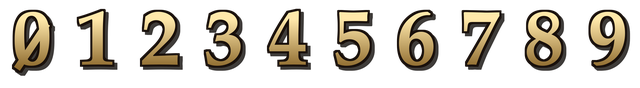
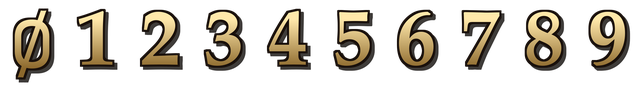
Slashed-zero numeral, full-size waiting placards, cards tossed off the table at game end
- The bid 0 is now Pagella's own slashed zero (the empty-set sign), not a drawn-on stroke.
- Placards waiting to bid keep their full size.
- When the game ends, the trump and every card of the final hand pop up from where
  they lay and tumble off the screen in 3D, like the title screen's cards.

Claude-Session: https://claude.ai/code/session_01WrGcoQcxycBfkWXV8vLDdm

Changed region(s): [[0.0, 0.0909, 0.0938, 0.9545]]

diff --git a/core/src/main/java/ohheck/FallingCards.java b/core/src/main/java/ohheck/FallingCards.java
@@ -49,6 +49,10 @@ public final class FallingCards {
 		final Vector3 axis = new Vector3();
 		float fall, spin, swayAmp, swayFreq, swayPhase, age;
 		Card card;
+		/** A card tossed off the table: thrown with this velocity, falling under gravity after its delay. */
+		boolean tossed;
+		final Vector3 vel = new Vector3();
+		float delay;
 	}
 
 	private final Assets assets;
@@ -56,6 +60,8 @@ public final class FallingCards {
 	private final List<Flake> flakes = new ArrayList<Flake>();
 	private float time, spawnDebt;
 	private final boolean fromEmpty;
+	/** Only tossed cards, all in focus and evenly lit, with no sparkles: the table at the game's end. */
+	private boolean tableMode;
 	private final float period, phase;
 
 	// scratch space, reused every frame
@@ -81,6 +87,53 @@ public final class FallingCards {
 		this.phase = rng.nextFloat() * MathUtils.PI2;
 	}
 
+	/** For the table at the game's end: nothing falls until cards are {@link #toss tossed}. */
+	public static FallingCards forTable(Assets assets, Random rng) {
+		FallingCards f = new FallingCards(assets, rng, true);
+		f.tableMode = true;
+		f.falling = false;
+		return f;
+	}
+
+	/** Upward pop, sideways scatter, depth drift and gravity for tossed cards, in screen units. */
+	private static final float TOSS_UP_MIN = 260f, TOSS_UP_MAX = 460f, TOSS_SIDE = 160f, GRAVITY = 1500f,
+			TOSS_SPIN_MIN = 160f, TOSS_SPIN_MAX = 480f, SPIN_UP_TIME = 0.35f;
+
+	/**
+	 * Throws a card off the table: it starts exactly where it lies (centre (x, y) relative to
+	 * the screen centre, w wide, turned rot degrees), and after delay seconds pops up, starts
+	 * tumbling and falls off the bottom of the screen.
+	 */
+	public void toss(Card c, float x, float y, float w, float rot, float delay) {
+		Flake f = new Flake();
+		float z = CARD_W * FOCAL / w, k = z / FOCAL;
+		f.pos.set(x * k, y * k, z);
+		f.rot.set(Vector3.Z, rot);
+		f.vel.set((x / 400f * TOSS_SIDE + (rng.nextFloat() * 2 - 1) * TOSS_SIDE) * k,
+				MathUtils.lerp(TOSS_UP_MIN, TOSS_UP_MAX, rng.nextFloat()) * k, (rng.nextFloat() * 2 - 0.6f) * 260f);
+		f.axis.set(rng.nextFloat() * 2 - 1, rng.nextFloat() * 2 - 1, (rng.nextFloat() * 2 - 1) * 0.4f).nor();
+		f.spin = MathUtils.lerp(TOSS_SPIN_MIN, TOSS_SPIN_MAX, rng.nextFloat()) * (rng.nextBoolean() ? 1 : -1);
+		f.card = c;
+		f.tossed = true;
+		f.delay = delay;
+		flakes.add(f);
+	}
+
+	/** Whether any card is still on its way off the screen (or waiting to be thrown). */
+	public boolean active() {
+		return !flakes.isEmpty();
+	}
+
+	/** Whether a card has been thrown yet (false while every tossed card is still waiting). */
+	public boolean anyThrown() {
+		for (Flake f : flakes) {
+			if (f.tossed && f.age >= f.delay) {
+				return true;
+			}
+		}
+		return false;
+	}
+
 	/** Cards falling right now; showers ebb and swell over time. */
 	private float spawnRate() {
 		float e = 0.5f + 0.5f * MathUtils.sin(MathUtils.PI2 * time / period + phase);
@@ -104,24 +157,36 @@ public final class FallingCards {
 			}
 		}
 		time += dt;
-		updateSparkles(dt, viewW, viewH);
-		if (!falling) {
-			return;
+		if (!tableMode) {
+			updateSparkles(dt, viewW, viewH);
 		}
-		fallingFor += dt;
-		spawnDebt += spawnRate() * dt;
-		while (spawnDebt >= 1f) {
-			spawnDebt -= 1f;
-			if (flakes.size() < MAX_CARDS) {
-				spawn(viewW, viewH, true);
+		if (falling) {
+			fallingFor += dt;
+			spawnDebt += spawnRate() * dt;
+			while (spawnDebt >= 1f) {
+				spawnDebt -= 1f;
+				if (flakes.size() < MAX_CARDS) {
+					spawn(viewW, viewH, true);
+				}
 			}
 		}
 		for (Iterator<Flake> it = flakes.iterator(); it.hasNext();) {
 			Flake f = it.next();
 			f.age += dt;
-			f.pos.y -= f.fall * dt;
-			f.pos.x += f.swayAmp * MathUtils.cos(f.swayFreq * f.age + f.swayPhase) * dt;
-			dq.set(f.axis, f.spin * dt);
+			if (f.tossed) {
+				float t = f.age - f.delay;
+				if (t <= 0) {
+					continue; // still lying on the table
+				}
+				float k = f.pos.z / FOCAL;
+				f.vel.y -= GRAVITY * k * dt;
+				f.pos.mulAdd(f.vel, dt);
+				dq.set(f.axis, f.spin * Math.min(1f, t / SPIN_UP_TIME) * dt);
+			} else {
+				f.pos.y -= f.fall * dt;
+				f.pos.x += f.swayAmp * MathUtils.cos(f.swayFreq * f.age + f.swayPhase) * dt;
+				dq.set(f.axis, f.spin * dt);
+			}
 			f.rot.set(dq.mul(f.rot)).nor();
 			if (f.pos.y < -(halfH(f.pos.z, viewH) + CARD_H * 1.5f)) {
 				it.remove();
@@ -167,12 +232,18 @@ public final class FallingCards {
 	/** Draws sparkles and cards with the screen centre at (cx, cy). */
 	public void draw(SpriteBatch batch, float cx, float cy) {
 		Collections.sort(flakes, FAR_FIRST);
-		drawSparkles(batch, cx, cy, true);
+		if (!tableMode) {
+			drawSparkles(batch, cx, cy, true);
+		}
 		glinting.clear();
 		for (Flake f : flakes) {
-			drawFlake(batch, f, cx, cy);
+			if (!f.tossed || f.age >= f.delay) {
+				drawFlake(batch, f, cx, cy);
+			}
 		}
-		drawSparkles(batch, cx, cy, false);
+		if (!tableMode) {
+			drawSparkles(batch, cx, cy, false);
+		}
 		drawGlints(batch, cx, cy);
 	}
 
@@ -191,8 +262,11 @@ public final class FallingCards {
 		// further away is darker, so the shower has depth
 		float depth = (f.pos.z - NEAR) / (FAR - NEAR);
 		// (capped at 1: packed vertex colours overflow into the next channel above that)
-		float b = Math.min(0.94f, lit * MathUtils.lerp(1.05f, 0.42f, depth));
-		float d = defocus(f.pos.z);
+		// (on the table: no depth falloff, and flat cards keep their full brightness)
+		float b = Math.min(0.94f, tableMode ? 0.5f + 0.6f * lit : lit * MathUtils.lerp(1.05f, 0.42f, depth));
+		float d = tableMode ? 0f : defocus(f.pos.z);
+		// the title's warm light; on the table, the cards' own colours (so they don't change as they leave)
+		float warmR = tableMode ? 1f : WARM_R, warmG = tableMode ? 1f : WARM_G, warmB = tableMode ? 1f : WARM_B;
 
 		// a glint when the card turns its face towards the light
 		VIEW_LIGHT.set(LIGHT).add(toCam).nor();
@@ -206,11 +280,11 @@ public final class FallingCards {
 			TextureRegion blur = front ? assets.blurredFace(f.card) : assets.blurredBack();
 			float grow = 1f / (1f - 2f * Assets.blurMarginX()), growY = 1f / (1f - 2f * Assets.blurMarginY());
 			float a = Math.min(1f, d * 3f);
-			drawQuad(batch, f, cx, cy, blur, CARD_W * grow, CARD_H * growY, Color.toFloatBits(b * WARM_R, b * WARM_G, b * WARM_B, a));
+			drawQuad(batch, f, cx, cy, blur, CARD_W * grow, CARD_H * growY, Color.toFloatBits(b * warmR, b * warmG, b * warmB, a));
 		}
 		if (d < 0.98f) {
 			TextureRegion r = front ? assets.face(f.card) : assets.back();
-			drawQuad(batch, f, cx, cy, r, CARD_W, CARD_H, Color.toFloatBits(b * WARM_R, b * WARM_G, b * WARM_B, 1f - d));
+			drawQuad(batch, f, cx, cy, r, CARD_W, CARD_H, Color.toFloatBits(b * warmR, b * warmG, b * warmB, 1f - d));
 		}
 	}
 

diff --git a/core/src/main/java/ohheck/PlayScreen.java b/core/src/main/java/ohheck/PlayScreen.java
@@ -54,6 +54,10 @@ public class PlayScreen extends BaseScreen {
 	private final TrickView trick = new TrickView();
 	private final Sparks sparks = new Sparks();
 	private final Fireworks fireworks = new Fireworks();
+	/** At the game's end, the final hand's cards and the trump thrown off the table; null until then. */
+	private FallingCards tumble;
+	/** When the trump goes, then each card of the final hand in the order played. */
+	private static final float TOSS_TRUMP = 0.15f, TOSS_FIRST = 0.35f, TOSS_STEP = 0.04f;
 	private final Motes motes = new Motes();
 	/** Drives your seat in scripted screenshot runs; null in normal play. */
 	private final Autoplay autoplay;
@@ -132,6 +136,7 @@ public class PlayScreen extends BaseScreen {
 				newHighScore = PlayScreen.this.game.recordHighScore(m.score(HUMAN), overlays.place(HUMAN), lowest);
 				overlays.playAgainButton.set(0, 0, 0, 0); // not tappable until drawn
 				overlays.highScoresButton.set(0, 0, 0, 0);
+				tossTheTable(m);
 				if (m.leaders().contains(HUMAN)) { // you won (or tied for the win)
 					sparks.burst(table.w / 2, table.h / 2 + 100, 160);
 					fireworks.show(table.w, table.h);
@@ -173,7 +178,30 @@ public class PlayScreen extends BaseScreen {
 		return flow.match().phase() == Match.Phase.GAME_OVER;
 	}
 
+	/** Throws the trump and every card of the final hand (from where each was played) off the table. */
+	private void tossTheTable(Match m) {
+		// (its own seed, so the throw never changes the game's random numbers)
+		tumble = FallingCards.forTable(assets, new Random(m.score(HUMAN) * 31L + m.score(0)));
+		float cx = table.w / 2, cy = table.h / 2;
+		tumble.toss(m.trumpCard(), table.trumpX() + table.trumpW() / 2 - cx, table.trumpY() + table.trumpH() / 2 - cy,
+				table.trumpW(), 0, TOSS_TRUMP);
+		List<Card> played = m.playedThisHand();
+		List<Integer> seats = m.playedThisHandSeats();
+		for (int i = 0; i < played.size(); i++) {
+			int seat = seats.get(i);
+			Vector2 slot = table.trickSlot(seat);
+			tumble.toss(played.get(i), slot.x + Assets.CARD_W / 2f - cx, slot.y + Assets.CARD_H / 2f - cy, Assets.CARD_W,
+					TrickView.tilt(played.get(i), seat, m.handIndex()), TOSS_FIRST + i * TOSS_STEP);
+		}
+	}
+
+	/** Whether the trump card has been thrown off the table (so it's no longer drawn in its place). */
+	private boolean trumpGone() {
+		return tumble != null && tumble.anyThrown();
+	}
+
 	private void newGame() {
+		tumble = null;
 		Match m = Match.random(4, rng);
 		overlays.setMatch(m);
 		newHighScore = -1;
@@ -208,7 +236,10 @@ public class PlayScreen extends BaseScreen {
 		overlays.update(dt);
 		sparks.step(dt);
 		fireworks.update(dt);
-		motes.update(dt, flow.trumpFaceUp(), table.trumpX(), table.trumpY(), table.trumpW(), table.trumpH());
+		if (tumble != null) {
+			tumble.update(dt, table.w, table.h);
+		}
+		motes.update(dt, flow.trumpFaceUp() && !trumpGone(), table.trumpX(), table.trumpY(), table.trumpW(), table.trumpH());
 		if (autoplay != null) {
 			if (flow.yourTurnToBid() || flow.yourTurnToPlay()) {
 				autoplay.yourTurn(dt);
@@ -242,7 +273,8 @@ public class PlayScreen extends BaseScreen {
 		default:
 			break;
 		}
-		return dragging || sparks.active() || fireworks.active() || trick.anyInFlight(time);
+		return dragging || sparks.active() || fireworks.active() || trick.anyInFlight(time)
+				|| (tumble != null && tumble.active());
 	}
 
 	// ------------------------------------------------------------ input
@@ -499,6 +531,9 @@ public class PlayScreen extends BaseScreen {
 				Glints.draw(batch, assets.glow, pressed, dragX - cw / 2, dragY - ch / 2, cw, ch, cw, 0, time, 1f);
 			}
 		}
+		if (tumble != null) {
+			tumble.draw(batch, table.w / 2, table.h / 2); // over the scores, briefly, as they fall away
+		}
 		sparks.draw(batch, assets.glow);
 		if (menuOpen) {
 			overlays.drawMenu();
@@ -569,8 +604,11 @@ public class PlayScreen extends BaseScreen {
 	}
 
 	private void drawTrump() {
-		if (flow.state() == TableState.SHUFFLE) {
-			return; // the trump card is still in the deck
+		if (flow.state() == TableState.SHUFFLE || trumpGone()) {
+			if (trumpGone()) {
+				motes.draw(batch, assets.glow); // the last few still rising
+			}
+			return; // the trump card is still in the deck, or thrown off the table
 		}
 		float x = table.trumpX(), y = table.trumpY(), cw = table.trumpW(), ch = table.trumpH();
 		art.shadow(x, y, cw, ch, 4);

diff --git a/tools/make_art.py b/tools/make_art.py
@@ -407,19 +407,24 @@ NUMERAL_FONT = "/usr/share/texmf/fonts/opentype/public/tex-gyre/texgyrepagella-b
 
 def bid_digits(out):
     """Bid numerals 0-9 in one strip: gold, shaded darker toward the foot, with a dark
-    edge and an engraved shadow; the 0 is struck through like the zero-bid icon."""
+    edge and an engraved shadow; the 0 is struck through like the zero-bid icon.
+    The numeral font must be TeX Gyre Pagella: its empty-set sign is the slashed zero."""
     CW, CH = 64, 88
     W, H = CW * SS, CH * SS
-    font = ImageFont.truetype(NUMERAL_FONT if os.path.exists(NUMERAL_FONT) else SERIF_BOLD, 80 * SS)
+    font = ImageFont.truetype(NUMERAL_FONT, 80 * SS)
     strip = Image.new("RGBA", (CW * 10, CH), (0, 0, 0, 0))
     for n in range(10):
         mask = Image.new("L", (W, H), 0)
         md = ImageDraw.Draw(mask)
         cx, cy = W / 2, H / 2 + 2 * SS
-        md.text((cx, cy), str(n), font=font, fill=255, anchor="mm")
+        # the 0 is the font's own slashed zero (the empty-set sign, drawn as its 0 struck through)
         if n == 0:
-            k = 15 * SS
-            md.line([(cx - k, cy + k * 1.5), (cx + k, cy - k * 1.5)], fill=255, width=7 * SS)
+            # its slash reaches past the other digits, so a little smaller, centred on its own outline
+            zero = ImageFont.truetype(NUMERAL_FONT, 72 * SS)
+            l, t, r, b = md.textbbox((0, 0), "\u2205", font=zero)
+            md.text((cx - (l + r) / 2, H / 2 - (t + b) / 2), "\u2205", font=zero, fill=255)
+        else:
+            md.text((cx, cy), str(n), font=font, fill=255, anchor="mm")
         edge = mask.filter(ImageFilter.MaxFilter(2 * (2 * SS) + 1))
         img = Image.new("RGBA", (W, H), (0, 0, 0, 0))
         # engraved shadow, then a dark edge, then the gold

diff --git a/core/src/main/java/ohheck/PlayerPanel.java b/core/src/main/java/ohheck/PlayerPanel.java
@@ -8,7 +8,7 @@ import com.badlogic.gdx.math.MathUtils;
  * A player's bar, after the original game's: name, dealer icon and score, and
  * one card icon per trick: faded = bid but not won yet, solid = won, red =
  * won over the bid; a bid of zero shows a struck-through circle until a trick is taken. Glows
- * gold while it's that player's turn; until they've bid, it sits sunk into the table, dimmed,
+ * gold while it's that player's turn; until they've bid, it sits sunk into the table (same size), dimmed,
  * with an hourglass.
  */
 final class PlayerPanel {
@@ -17,8 +17,7 @@ final class PlayerPanel {
 
 	private static final float ICON_MAX_W = 28, ICON_GAP = 3;
 	private static final Color BID_FADE = new Color(1f, 1f, 1f, 0.32f);
-	/** Not bid yet: the panel sits a little inside its usual edge, its text dimmed. */
-	private static final float WAIT_INSET = 3;
+	/** Not bid yet: the panel's text dimmed. */
 	private static final Color WAIT_TEXT = new Color(0.72f, 0.66f, 0.58f, 1f), WAIT_SCORE = new Color(0.62f, 0.5f, 0.3f, 1f);
 
 	private final BaseScreen screen;
@@ -39,7 +38,7 @@ final class PlayerPanel {
 		if (turn) {
 			screen.frame(assets.panelTurn, x - 4, y - 4, W + 8, H + 8);
 		} else if (waiting) {
-			screen.frame(assets.panelWait, x + WAIT_INSET, y + WAIT_INSET, W - 2 * WAIT_INSET, H - 2 * WAIT_INSET);
+			screen.frame(assets.panelWait, x, y, W, H);
 		} else {
 			screen.frame(assets.panel, x, y, W, H);
 		}

diff --git a/lwjgl3/src/main/java/ohheck/lwjgl3/ScreenshotLauncher.java b/lwjgl3/src/main/java/ohheck/lwjgl3/ScreenshotLauncher.java
@@ -27,7 +27,7 @@ public class ScreenshotLauncher {
 	/** Prefixes of states to capture, as reported by the screens' stateTag(). */
 	private static final String[] WANTED = { "intro", "title", "highscores", "options", "rules", "shuffle:1", "deal:3", "bid:3",
 			"trick:4", "collect:4", "trickwon:", "handend:4", "handover:4", "deal:7", "bidding:7", "menu:7", "play:8:",
-			"gameover" };
+			"tossing", "gameover" };
 
 	/** Hands played instantly: nothing on the list happens in them. */
 	private static final Integer[] SKIP = { 2, 5, 6 };
@@ -46,8 +46,11 @@ public class ScreenshotLauncher {
 		if (state.equals("rules")) {
 			return 8; // scrolled down a little
 		}
+		if (state.equals("tossing")) {
+			return 8; // the final hand's cards in the air
+		}
 		if (state.equals("gameover")) {
-			return 26; // the winner's fireworks bursting
+			return 14; // (after 1.2 s of tossing) the winner's fireworks bursting
 		}
 		if (state.startsWith("handover")) {
 			return 12; // the made/set labels have dropped beside the names

diff --git a/core/src/main/java/ohheck/Autoplay.java b/core/src/main/java/ohheck/Autoplay.java
@@ -94,6 +94,9 @@ final class Autoplay {
 	}
 
 	/** A short description of what's on screen, such as "deal:3" or "trick:5". */
+	/** Game over: until this many seconds in, the screenshot run calls it "tossing" (cards in the air). */
+	static final float TOSSING_SHOT_END = 1.2f;
+
 	static String describe(PlayScreen s) {
 		Match m = s.match();
 		int hand = m.handIndex() + 1;
@@ -121,7 +124,8 @@ final class Autoplay {
 		case RESULTS:
 			return "handover:" + hand;
 		default:
-			return "gameover";
+			// the final hand's cards thrown off the table, then the scores
+			return s.stateTime() < TOSSING_SHOT_END ? "tossing" : "gameover";
 		}
 	}
 }

diff --git a/core/src/main/java/rules/Match.java b/core/src/main/java/rules/Match.java
@@ -255,6 +255,16 @@ public final class Match {
 		return Rules.legalPlays(hands.get(seat), seat == current ? leadSuit() : null);
 	}
 
+	/** Every card played so far this hand (the whole hand once it's over), in order. */
+	public List<Card> playedThisHand() {
+		return Collections.unmodifiableList(history);
+	}
+
+	/** Who played each card in {@link #playedThisHand()}. */
+	public List<Integer> playedThisHandSeats() {
+		return Collections.unmodifiableList(historySeats);
+	}
+
 	public List<Card> lastTrick() {
 		return lastTrick;
 	}

diff --git a/core/src/main/java/ohheck/TrickView.java b/core/src/main/java/ohheck/TrickView.java
@@ -126,7 +126,7 @@ final class TrickView {
 	}
 
 	/** A card's resting tilt: random-looking, but steady for that card in that hand. */
-	private static float tilt(Card c, int seat, int hand) {
+	static float tilt(Card c, int seat, int hand) {
 		long k = ((c.suit().ordinal() * 13L + c.rank().ordinal()) * 31 + hand) * 8 + seat;
 		k = (k + 0x9E3779B97F4A7C15L) * 0xBF58476D1CE4E5B9L;
 		k ^= k >>> 31;
